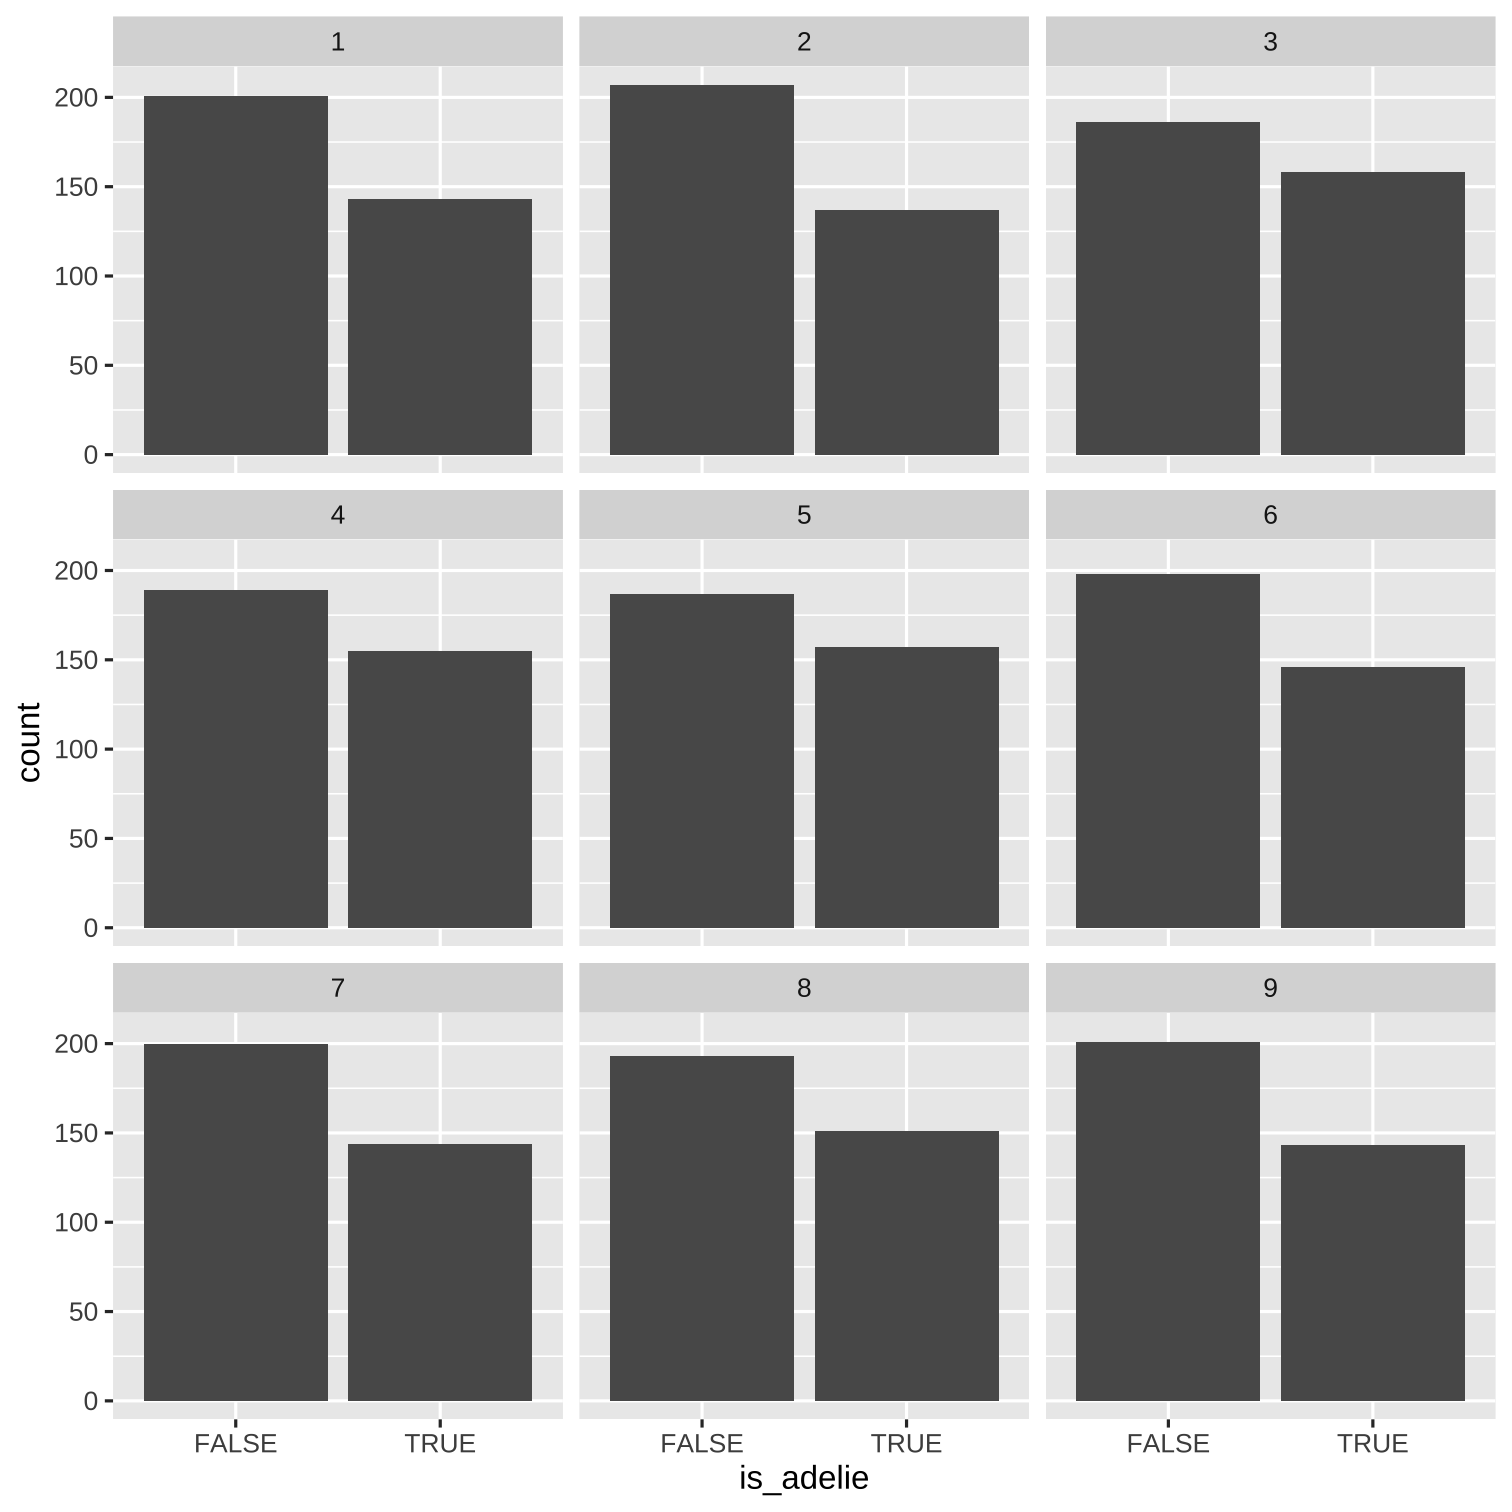
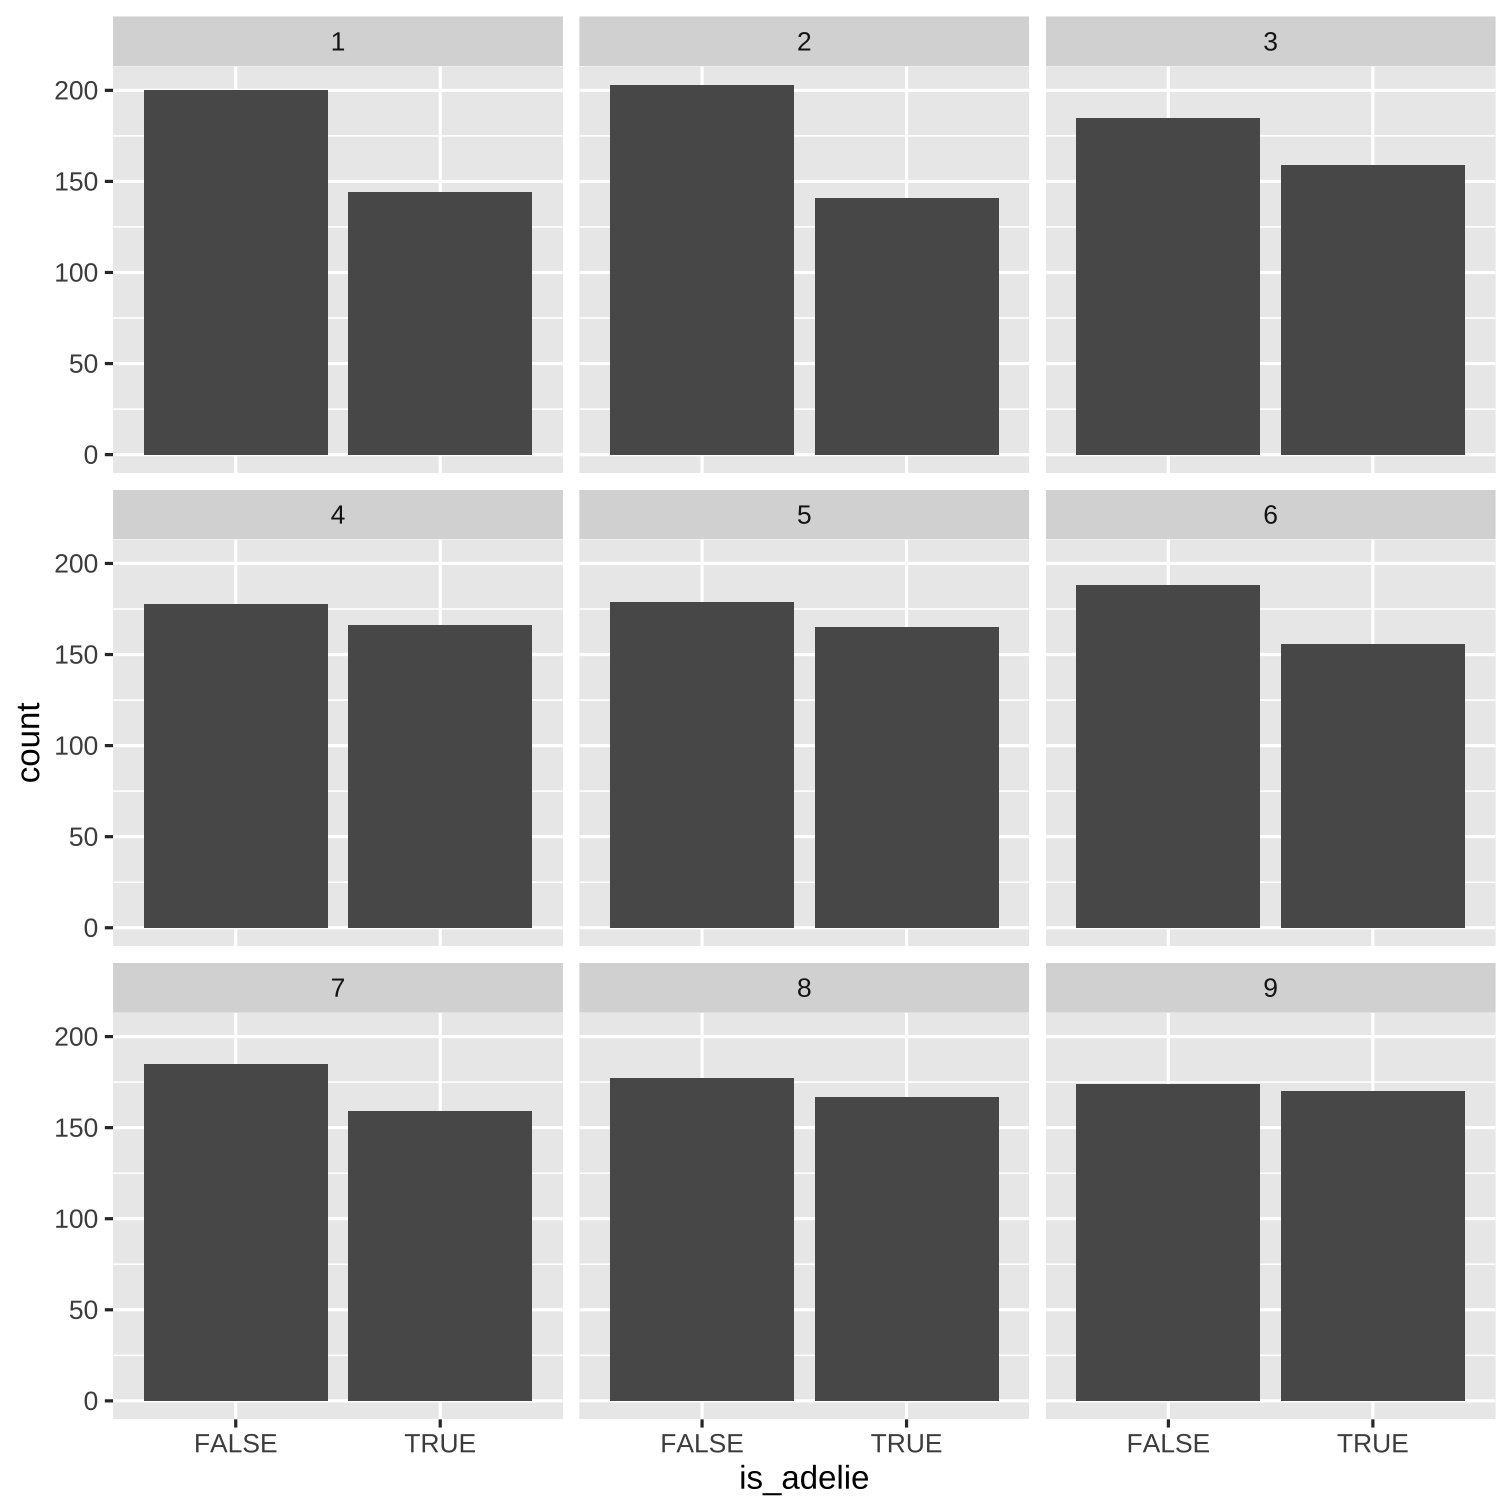
change print

diff --git a/static/labs/06/slides-2.html b/static/labs/06/slides-2.html
@@ -148,6 +148,14 @@ penguins %&gt;%
 ```r
 obs_stat &lt;- penguins %&gt;%
   summarize(p_adelie = mean(is_adelie))
+obs_stat
+```
+
+```
+## # A tibble: 1 × 1
+##   p_adelie
+##      &lt;dbl&gt;
+## 1    0.442
 ```
 
 ---
@@ -174,12 +182,12 @@ penguins %&gt;%
 ##    replicate is_adelie
 ##        &lt;int&gt; &lt;fct&gt;    
 ##  1         1 FALSE    
-##  2         1 FALSE    
+##  2         1 TRUE     
 ##  3         1 FALSE    
 ##  4         1 TRUE     
 ##  5         1 FALSE    
-##  6         1 FALSE    
-##  7         1 TRUE     
+##  6         1 TRUE     
+##  7         1 FALSE    
 ##  8         1 TRUE     
 ##  9         1 FALSE    
 ## 10         1 TRUE     
@@ -206,14 +214,14 @@ penguins %&gt;%
 ## # Groups:   replicate [1]
 ##    replicate is_adelie
 ##        &lt;int&gt; &lt;fct&gt;    
-##  1         1 FALSE    
-##  2         1 TRUE     
-##  3         1 TRUE     
+##  1         1 TRUE     
+##  2         1 FALSE    
+##  3         1 FALSE    
 ##  4         1 TRUE     
-##  5         1 TRUE     
+##  5         1 FALSE    
 ##  6         1 TRUE     
-##  7         1 TRUE     
-##  8         1 FALSE    
+##  7         1 FALSE    
+##  8         1 TRUE     
 ##  9         1 FALSE    
 ## 10         1 FALSE    
 ## # … with 334 more rows
@@ -238,16 +246,16 @@ penguins %&gt;%
 ## # Groups:   replicate [1]
 ##    replicate is_adelie
 ##        &lt;int&gt; &lt;fct&gt;    
-##  1         1 FALSE    
-##  2         1 TRUE     
+##  1         1 TRUE     
+##  2         1 FALSE    
 ##  3         1 TRUE     
 ##  4         1 TRUE     
-##  5         1 TRUE     
-##  6         1 FALSE    
+##  5         1 FALSE    
+##  6         1 TRUE     
 ##  7         1 FALSE    
-##  8         1 FALSE    
+##  8         1 TRUE     
 ##  9         1 FALSE    
-## 10         1 FALSE    
+## 10         1 TRUE     
 ## # … with 334 more rows
 ```
 ]
@@ -299,15 +307,15 @@ penguins %&gt;%
 ## # A tibble: 9 × 2
 ##   replicate  stat
 ##       &lt;int&gt; &lt;dbl&gt;
-## 1         1 0.468
-## 2         2 0.453
-## 3         3 0.448
-## 4         4 0.448
-## 5         5 0.442
-## 6         6 0.483
-## 7         7 0.453
-## 8         8 0.442
-## 9         9 0.480
+## 1         1 0.456
+## 2         2 0.465
+## 3         3 0.416
+## 4         4 0.483
+## 5         5 0.445
+## 6         6 0.456
+## 7         7 0.442
+## 8         8 0.419
+## 9         9 0.442
 ```
 
 --
@@ -363,7 +371,7 @@ penguins %&gt;%
 ## # A tibble: 1 × 2
 ##   lower_ci upper_ci
 ##      &lt;dbl&gt;    &lt;dbl&gt;
-## 1    0.392    0.494
+## 1    0.391    0.491
 ```
 
 
